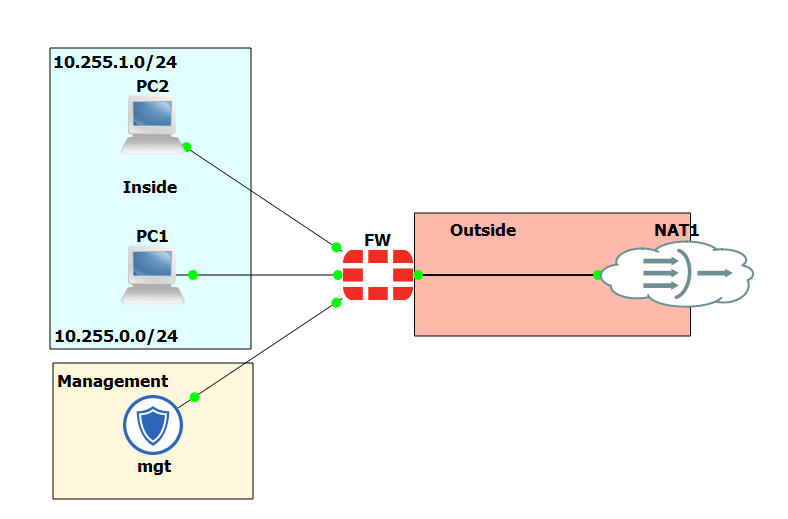
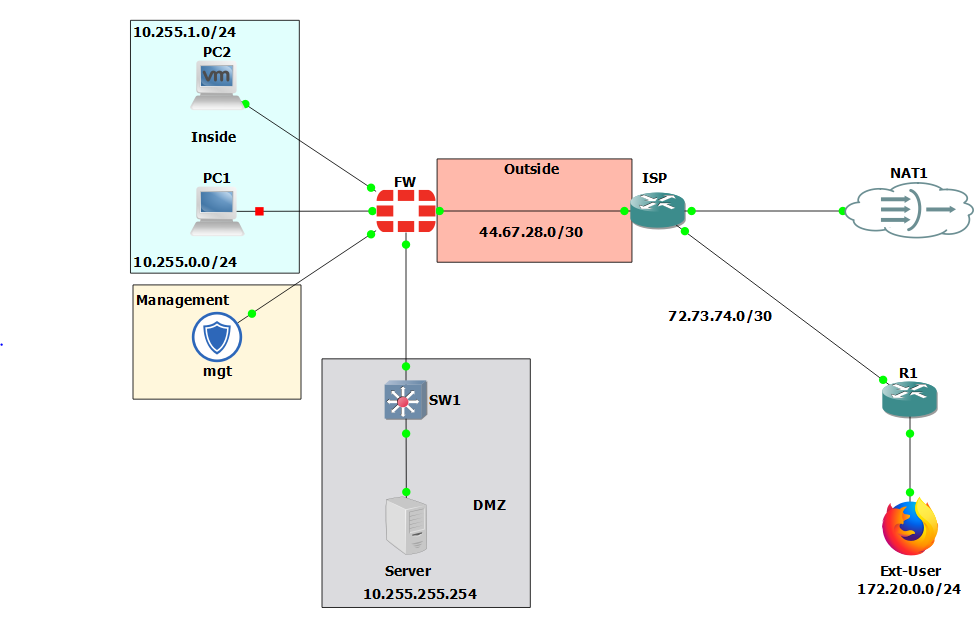
Update

diff --git a/Readme.md b/Readme.md
@@ -102,6 +102,34 @@ config system interface
         set device-identification enable
         set role lan
         set snmp-index 2
+    next
+    edit "port3"
+        set vdom "root"
+        set ip 10.255.1.1 255.255.255.0
+        set allowaccess ping
+        set type physical
+        set alias "LAN-2"
+        set device-identification enable
+        set role lan
+        set snmp-index 3
+    next
+    edit "port4"
+        set vdom "root"
+        set ip 44.67.28.2 255.255.255.252
+        set type physical
+        set alias "WAN-Internet"
+        set role wan
+        set snmp-index 4
+    next
+    edit "port10"
+        set vdom "root"
+        set ip 10.255.255.1 255.255.255.0
+        set allowaccess ping https
+        set type physical
+        set alias "DMZ-LAN"
+        set role dmz
+        set snmp-index 1
+
 ```
 
 ### 3. Firewall Policies
@@ -111,10 +139,18 @@ config system interface
 - **OUTSIDE → INSIDE**
   - Denied by default (implicit deny)
   - No inbound access unless explicitly permitted
+- **OUTSIDE → DMZ**
+  - Internet traffic to DMZ allows for web traffic to traverse the firewall to Webserver (80)
+  - DNAT (Port fowarding) is enabled.
 
-### 4. NAT Configuration
+
+  ![Topology](/Topology1.PNG)
+
+
+### 4. PAT Configuration
 - Source NAT configured using PAT
 - Internal IP addresses translated to the Outside interface address
+
 ```bash
 FortiGate-VM64-KVM # get system session list
 PROTO   EXPIRE SOURCE           SOURCE-NAT       DESTINATION      DESTINATION-NAT
@@ -126,8 +162,6 @@ udp     176    192.168.122.202:3308 -                210.7.96.53:53   -
 udp     165    192.168.122.202:3308 -                208.91.112.220:53 -
 ```
 ---
-
-
 
 
 ## Tools and Technologies
